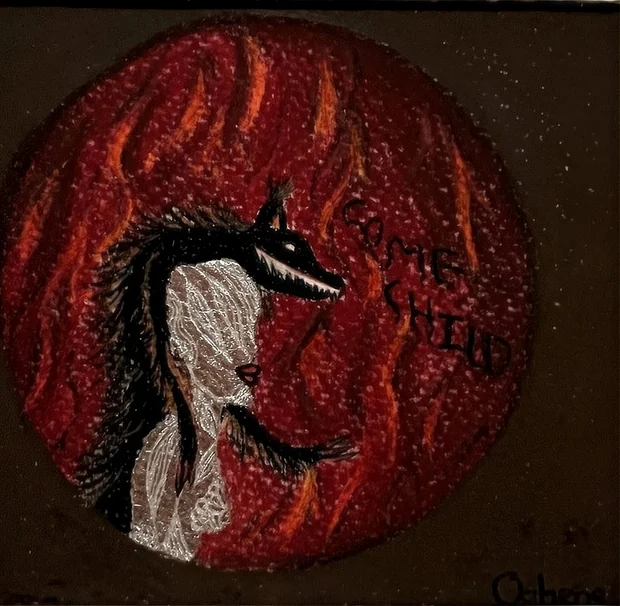
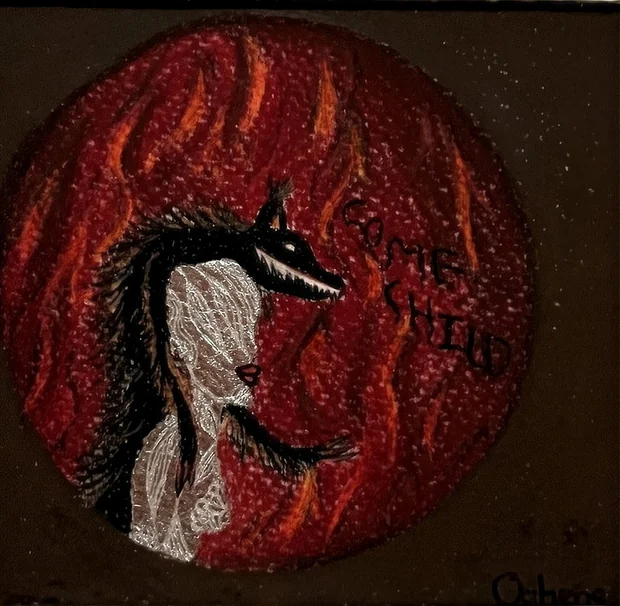
Clear the fringes the upscaler resampled back in
Five works picked up a faint light edge again when they were enlarged -
the upscaler softened the boundary pixels outward. Trimmed.

diff --git a/index.html b/index.html
@@ -865,7 +865,7 @@ footer.bg-12-footer{padding-top:calc(40px + 64px)}
       <figure class="work rv" data-slug="untitled-pt1"><div class="ai"><div class="art-img"><img src="images/thumb/untitled-pt1.webp" loading="lazy" alt="" width="620" height="473"><span class="enlarge">+</span></div></div><figcaption><b>Untitled pt.1</b><span>Photography · 1 of 5 · 2024</span></figcaption></figure>
       <figure class="work rv" data-slug="untitled-pt2"><div class="ai"><div class="art-img"><img src="images/thumb/untitled-pt2.webp" loading="lazy" alt="" width="620" height="827"><span class="enlarge">+</span></div></div><figcaption><b>Untitled pt.2</b><span>Photography · 1 of 5 · 2024</span></figcaption></figure>      <figure class="work rv" data-slug="holima-ntoa"><div class="ai"><div class="art-img"><img src="images/thumb/holima-ntoa.webp" loading="lazy" alt="" width="620" height="812"><span class="enlarge">+</span></div></div><figcaption><b>Holim'a Ntoa</b><span>Photography · 1 of 5 · 2024</span></figcaption></figure>
       <figure class="work rv" data-slug="tse-putsoa"><div class="ai"><div class="art-img"><img src="images/thumb/tse-putsoa.webp" loading="lazy" alt="" width="620" height="831"><span class="enlarge">+</span></div></div><figcaption><b>Tse Putsoa</b><span>Photography · 1 of 5 · 2024</span></figcaption></figure>      <figure class="work rv" data-slug="untitled-market"><div class="ai"><div class="art-img"><img src="images/thumb/untitled-market.webp" loading="lazy" alt="" width="620" height="473"><span class="enlarge">+</span></div></div><figcaption><b>Untitled II</b><span>Photography · 1 of 5 · 2024</span></figcaption></figure>
-      <figure class="work rv" data-slug="mereting"><div class="ai"><div class="art-img"><img src="images/thumb/mereting.webp" loading="lazy" alt="" width="620" height="485"><span class="enlarge">+</span></div></div><figcaption><b>Mereting</b><span>Photography · triptych · 1 of 5 · 2025</span></figcaption></figure>
+      <figure class="work rv" data-slug="mereting"><div class="ai"><div class="art-img"><img src="images/thumb/mereting.webp" loading="lazy" alt="" width="620" height="494"><span class="enlarge">+</span></div></div><figcaption><b>Mereting</b><span>Photography · triptych · 1 of 5 · 2025</span></figcaption></figure>
       <figure class="work rv" data-slug="past-the-surface"><div class="ai"><div class="art-img"><img src="images/thumb/past-the-surface.webp" loading="lazy" alt="" width="620" height="790"><span class="enlarge">+</span></div></div><figcaption><b>Past the Surface</b><span>Photography · 1 of 5 · 2024</span></figcaption></figure>
       <figure class="work rv" data-slug="tshotleho"><div class="ai"><div class="art-img"><img src="images/thumb/tshotleho.webp" loading="lazy" alt="" width="620" height="924"><span class="enlarge">+</span></div></div><figcaption><b>Tshotleho</b><span>Pastel &amp; charcoal · 2024</span></figcaption></figure>
       <figure class="work rv" data-slug="ke-tswere-tshepo"><div class="ai"><div class="art-img"><img src="images/thumb/ke-tswere-tshepo.webp" loading="lazy" alt="" width="620" height="230"><span class="enlarge">+</span></div></div><figcaption><b>Ke Tshwere Tshepo</b><span>Charcoal · 2024</span></figcaption></figure>
@@ -1008,7 +1008,7 @@ footer.bg-12-footer{padding-top:calc(40px + 64px)}
       <figure class="work rv" data-slug="figure-study"><div class="ai"><div class="art-img"><img src="images/thumb/figure-study.webp" loading="lazy" alt="" width="620" height="863"><span class="enlarge">+</span></div></div><figcaption><b>Untitled (Figure)</b><span>Graphite</span></figcaption></figure>
       <figure class="work rv" data-slug="anatomy"><div class="ai"><div class="art-img"><img src="images/thumb/anatomy.webp" loading="lazy" alt="" width="620" height="540"><span class="enlarge">+</span></div></div><figcaption><b>Anatomy Study</b><span>Mixed media</span></figcaption></figure>
       <figure class="work rv" data-slug="butterfly-1"><div class="ai"><div class="art-img"><img src="images/thumb/butterfly-1.webp" loading="lazy" alt="" width="620" height="910"><span class="enlarge">+</span></div></div><figcaption><b>Butterfly Study I</b><span>Coffee on paper</span></figcaption></figure>
-      <figure class="work rv" data-slug="butterfly-2"><div class="ai"><div class="art-img"><img src="images/thumb/butterfly-2.webp" loading="lazy" alt="" width="620" height="832"><span class="enlarge">+</span></div></div><figcaption><b>Butterfly Study II</b><span>Coffee on paper</span></figcaption></figure>
+      <figure class="work rv" data-slug="butterfly-2"><div class="ai"><div class="art-img"><img src="images/thumb/butterfly-2.webp" loading="lazy" alt="" width="620" height="830"><span class="enlarge">+</span></div></div><figcaption><b>Butterfly Study II</b><span>Coffee on paper</span></figcaption></figure>
       <figure class="work rv" data-slug="butterfly-3"><div class="ai"><div class="art-img"><img src="images/thumb/butterfly-3.webp" loading="lazy" alt="" width="620" height="908"><span class="enlarge">+</span></div></div><figcaption><b>Butterfly Study III</b><span>Coffee &amp; colour</span></figcaption></figure>
       <figure class="work rv" data-slug="botanical"><div class="ai"><div class="art-img"><img src="images/thumb/botanical.webp" loading="lazy" alt="" width="620" height="890"><span class="enlarge">+</span></div></div><figcaption><b>Botanical Study</b><span>Coffee on paper</span></figcaption></figure>
       <figure class="work rv" data-slug="butterfly-gold"><div class="ai"><div class="art-img"><img src="images/thumb/butterfly-gold.webp" loading="lazy" alt="" width="620" height="1024"><span class="enlarge">+</span></div></div><figcaption><b>Untitled (Monarch)</b><span>Ink &amp; bleach</span></figcaption></figure>
